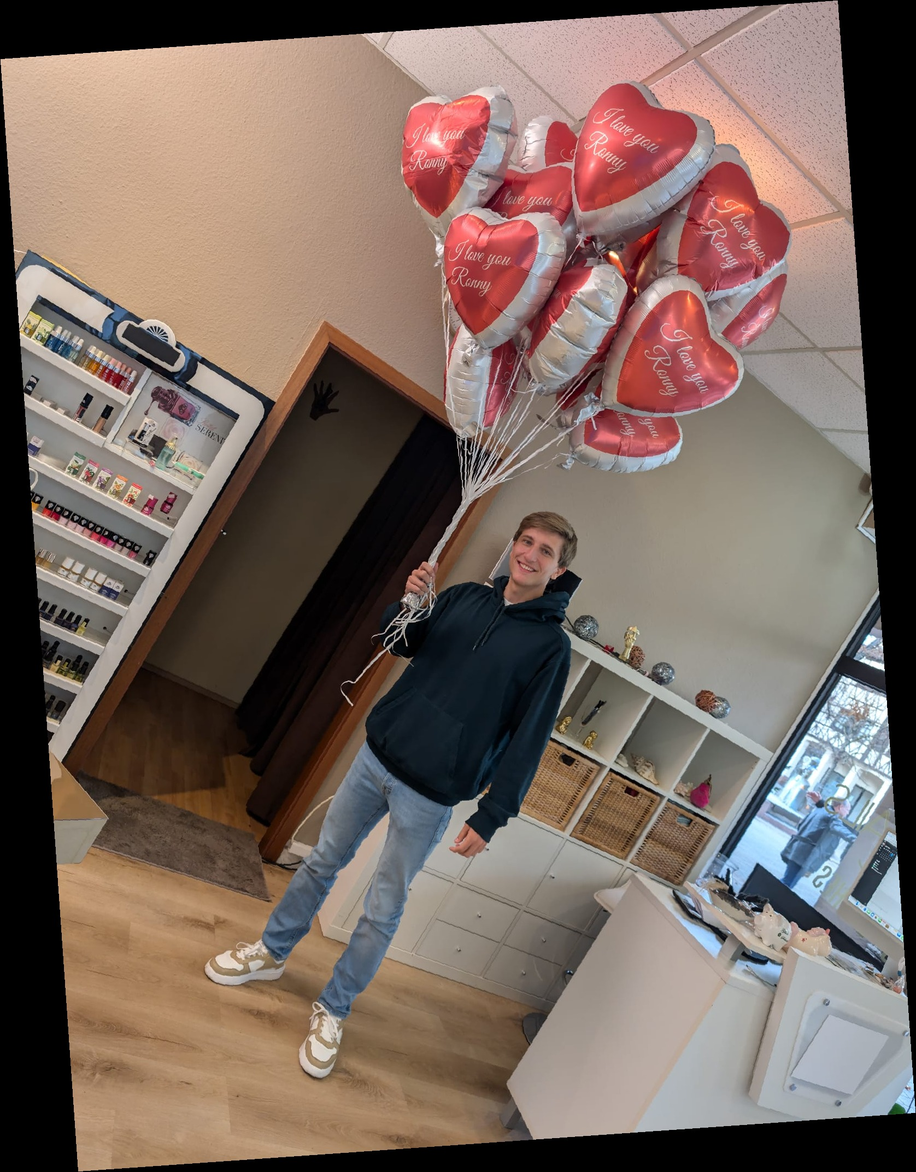
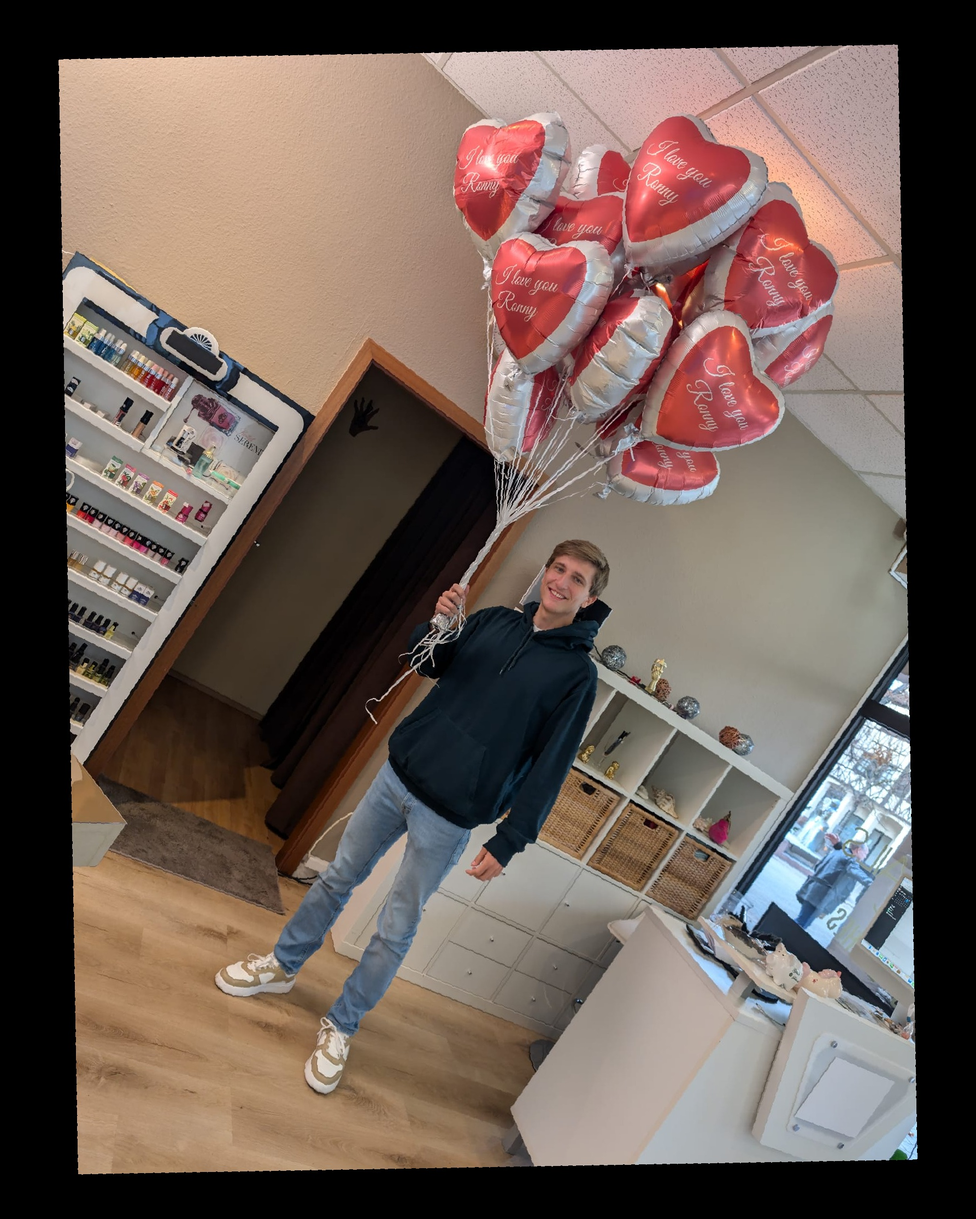
Fix About hero: correct rotation, show full image with object-fit contain
https://claude.ai/code/session_018bRftKhW3W2Fy3RYatj7Hh

diff --git a/de/ueber.css b/de/ueber.css
@@ -92,8 +92,8 @@ nav ul .btn button { background: none; border: none; color: #fff; font-size: 1.4
 }
 .hero-right img {
   width: 100%; height: 100%;
-  object-fit: cover;
-  object-position: top center;
+  object-fit: contain;
+  object-position: center bottom;
   display: block;
 }
 .hero-right::before {

diff --git a/en/ueber.css b/en/ueber.css
@@ -92,8 +92,8 @@ nav ul .btn button { background: none; border: none; color: #fff; font-size: 1.4
 }
 .hero-right img {
   width: 100%; height: 100%;
-  object-fit: cover;
-  object-position: top center;
+  object-fit: contain;
+  object-position: center bottom;
   display: block;
 }
 .hero-right::before {
